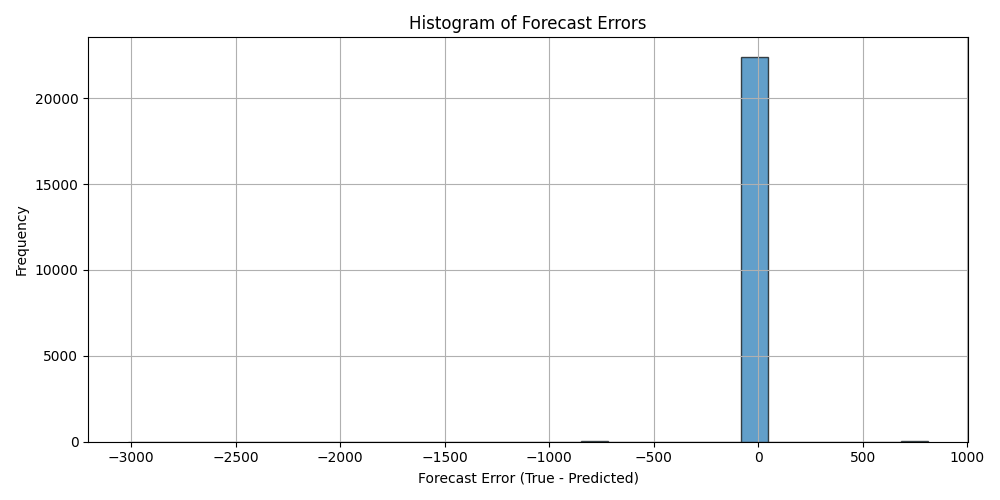
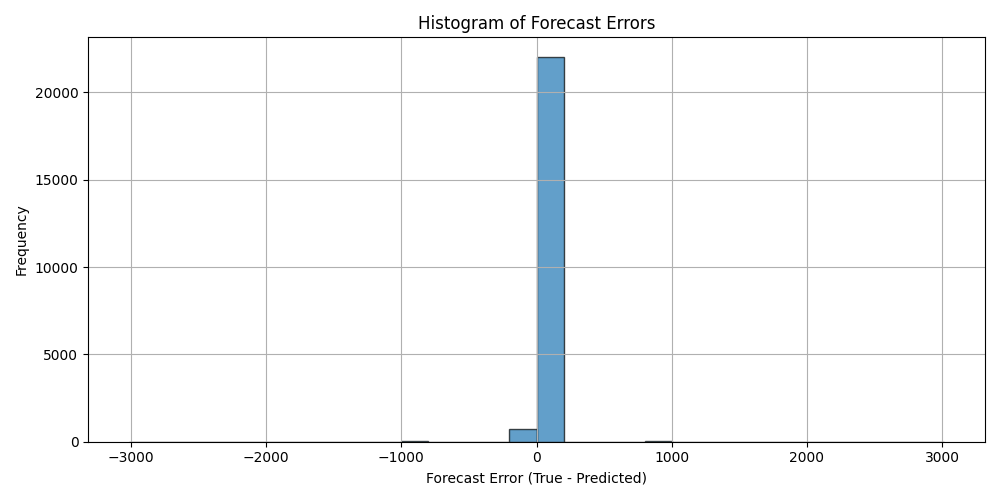
feature engineering

diff --git a/src/data/data_collection.py b/src/data/data_collection.py
@@ -1,46 +1,63 @@
 import volue_insight_timeseries 
 import pandas as pd
-from feature_engineering import *
+from .feature_engineering import *
 
-def get_data(X_curve_names: list, y_curve_names: list, 
-             session: volue_insight_timeseries.Session,  
-             start_date: pd.Timestamp, end_date: pd.Timestamp,
-             add_time=False,
-             add_lag=False,
-             add_rolling=False,
-             ) -> tuple:
-    """
-    Returns a tuple (X, y) as NumPy ndarrays.
-    X and y are obtained from the cleaned data based on the provided curve names.
-    """
+def get_data(X_curve_names, y_curve_names, session, start_date, end_date,
+             add_time=False, add_lag=False, add_rolling=False):
+    # Get data from both X curves and y curves
     combined_curves = X_curve_names + y_curve_names
     cleaned_df = _get_data(combined_curves, y_curve_names, session, start_date, end_date)
     
-    # Optionally, add time features from the index. For example:
-    cleaned_df = cleaned_df.copy()  # work on a copy to avoid SettingWithCopy warnings
-
-    # Define X and y columns. For X, you can decide whether to include the time features.
-    X_columns = [col for col in X_curve_names if col in cleaned_df.columns]# + time_features
+    # Define columns
+    X_columns = [col for col in X_curve_names if col in cleaned_df.columns]
     y_columns = [col for col in y_curve_names if col in cleaned_df.columns]
-
-    # Convert to numpy arrays.
-    # (The rows are aligned since they come from the same cleaned_df.)
-    X = cleaned_df[X_columns]
+    
+    # For future predictions, we need a copy of the complete dataset with all columns
+    full_df = cleaned_df.copy()
+    
+    # Extract X from the DataFrame for feature engineering
+    X_df = cleaned_df[X_columns].copy()
+    
+    # Apply transformations to X_df
     if add_time:
-        X = add_time_features(X)
+        X_df = add_time_features(X_df)
+    
+    # KEY CHANGE: Create lag features for BOTH X variables AND target variables
     if add_lag:
-        X = create_lag_features(X, columns=combined_curves, lags=[32])
+        # Create lag features for X columns
+        X_df = create_lag_features(X_df, columns=X_columns, lags=[32])
+        
+        # IMPORTANT: Add lagged target variables to X_df
+        for y_col in y_columns:
+            lagged_target = create_lag_features(
+                full_df[[y_col]], columns=[y_col], lags=[32]
+            )
+            # Rename to avoid confusion with the actual target
+            lagged_target.columns = [f'{y_col}_target_lag_{lag}' for lag in [32]]
+            
+            # Join to X_df
+            X_df = X_df.join(lagged_target)
+    
     if add_rolling:
-        X = create_rolling_features(X, columns=combined_curves)
+        X_df = create_rolling_features(X_df, columns=X_columns)
     
     if add_lag:
-        X = impute_missing_values(X, method="drop")
-
-
-    X = X.to_numpy()
-    y = cleaned_df[y_columns].to_numpy()
-
-    return X, y, X_columns, y_columns
+        X_df = impute_missing_values(X_df, method="drop")
+    
+    # Get valid indices after transformations
+    valid_indices = X_df.index
+    
+    # Extract y using only the valid indices
+    y_df = cleaned_df.loc[valid_indices, y_columns]
+    
+    # Convert to numpy arrays
+    X = X_df.to_numpy()
+    y = y_df.to_numpy()
+    
+    # Make sure they match
+    assert len(X) == len(y), f"X and y lengths don't match: {len(X)} vs {len(y)}"
+    
+    return X, y, list(X_df.columns), list(y_df.columns)
 
 
 def _get_data(curve_names: list, target_columns: list, 

diff --git a/src/xgboost_attempt_2.py b/src/xgboost_attempt_2.py
@@ -33,7 +33,7 @@ target_curve = curve_collections["de"]["mfrr"][0]  # e.g. "mfrr_up_price" or sim
 
 session = volue_insight_timeseries.Session(config_file=os.environ.get("WAPI_CONFIG"))
 
-X, y, X_columns, y_columns = get_data(X_curve_names, target_curve,
+X, y, X_columns, y_columns = get_data(X_curve_names, [target_curve],
                                       session,
                                       start_date, end_date,
                                       add_time=False, 
@@ -42,3 +42,8 @@ X, y, X_columns, y_columns = get_data(X_curve_names, target_curve,
                                       )
 
 X_train, X_test, y_train, y_test = train_test_split(X, y, test_size=0.2, shuffle=False)
+
+# ---------------------------
+# Model training loop
+# ---------------------------
+
